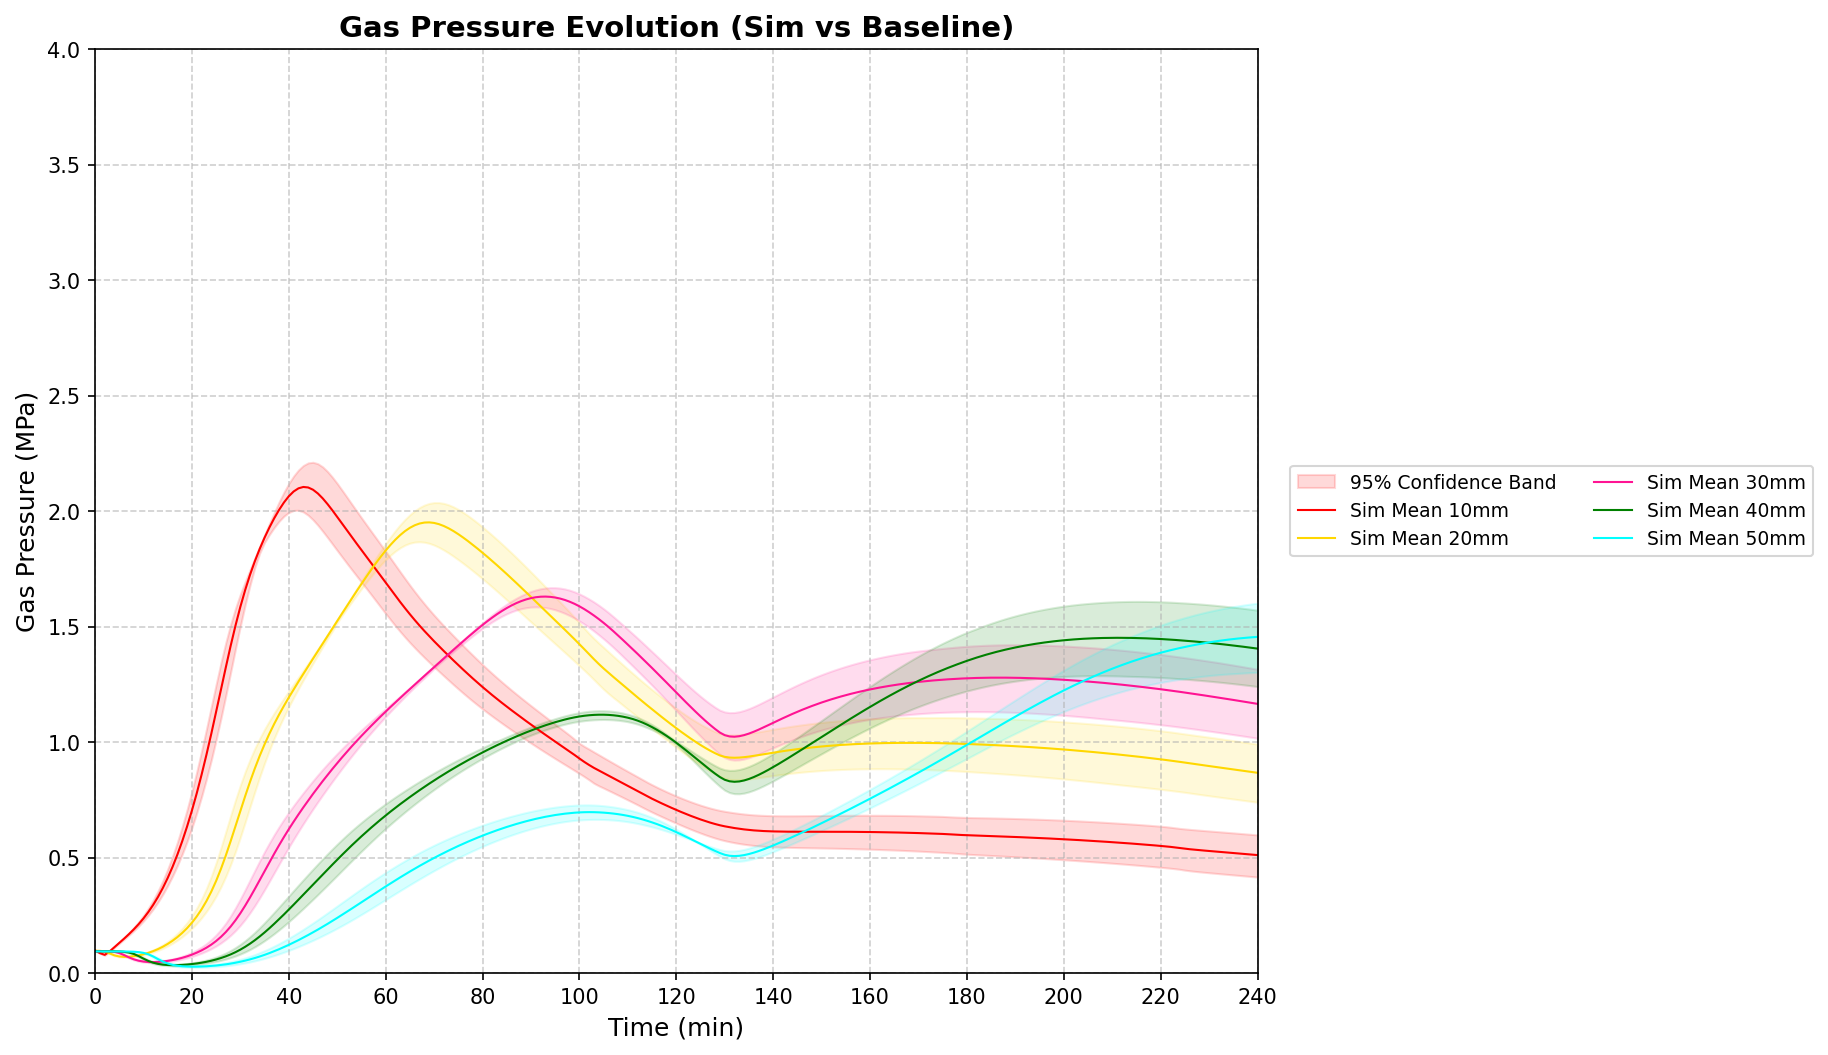
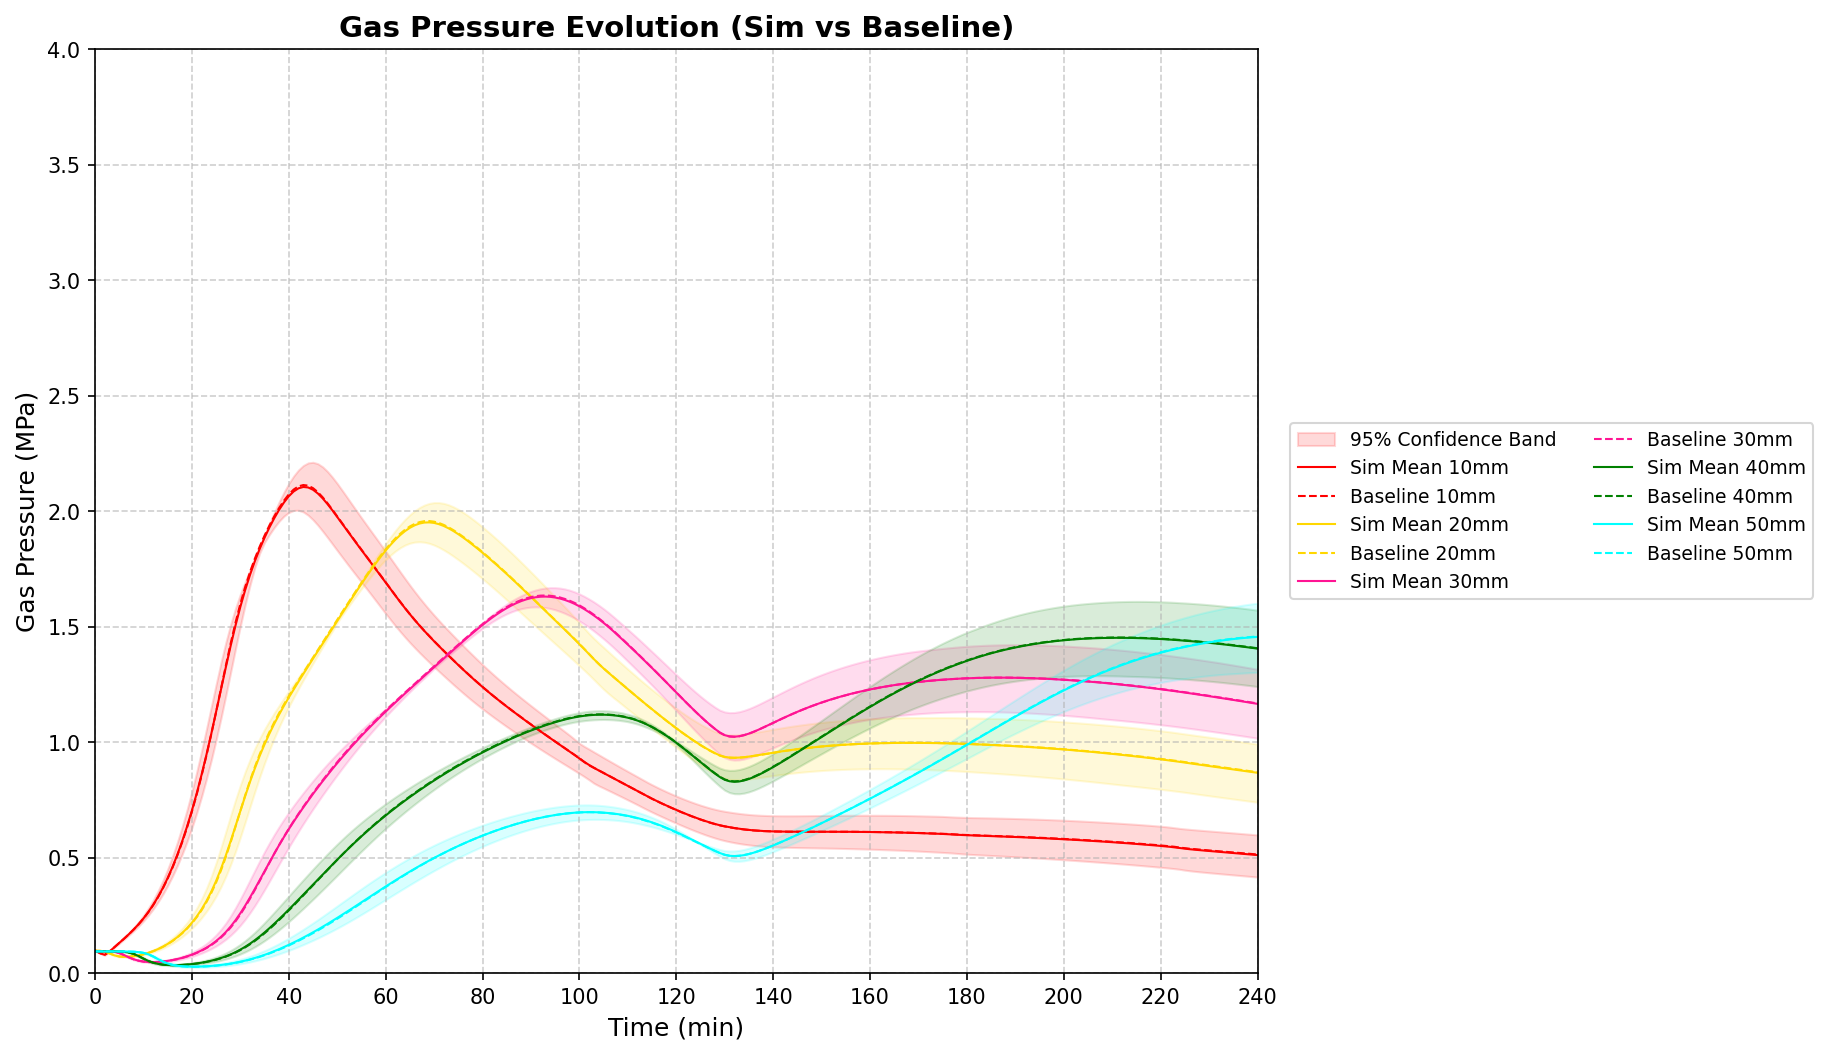
stochasticB plots updated

Changed region(s): [[0.686, 0.3943, 0.9978, 0.5763]]

diff --git a/05.Stochastic/Stochastic_A/[p3]_confidence-intervals.py b/05.Stochastic/Stochastic_A/[p3]_confidence-intervals.py
@@ -14,8 +14,8 @@ os.makedirs(output_dir, exist_ok=True)
 N_loops = 30
 
 # MỚI: Đường dẫn đến file kết quả gốc (Baseline)
-baseline_T_file  = r'D:\cast3m-m2internship\03.Calibration\Calibration_03\temp_results_no_32_KINT_8.5e-20_AK_4.0.csv'
-baseline_Pg_file = r'D:\cast3m-m2internship\03.Calibration\Calibration_03\pg_results_no_32_KINT_8.5e-20_AK_4.0.csv'
+baseline_T_file  = r'D:\cast3m-m2internship\03.Calibration\Calibration_03\CSV\temp_results_no_32_KINT_8.5e-20_AK_4.0.csv'
+baseline_Pg_file = r'D:\cast3m-m2internship\03.Calibration\Calibration_03\CSV\pg_results_no_32_KINT_8.5e-20_AK_4.0.csv'
 
 colors = {
     '00': 'blue',     # Không có trong trend plot, giữ màu đen

diff --git a/05.Stochastic/Stochastic_B/[p3]_confidence-intervals.py b/05.Stochastic/Stochastic_B/[p3]_confidence-intervals.py
@@ -14,8 +14,8 @@ os.makedirs(output_dir, exist_ok=True)
 N_loops = 30
 
 # MỚI: Đường dẫn đến file kết quả gốc (Baseline)
-baseline_T_file  = r'D:\cast3m-m2internship\03.Calibration\Calibration_03\temp_results_no_32_KINT_8.5e-20_AK_4.0.csv'
-baseline_Pg_file = r'D:\cast3m-m2internship\03.Calibration\Calibration_03\pg_results_no_32_KINT_8.5e-20_AK_4.0.csv'
+baseline_T_file  = r'D:\cast3m-m2internship\03.Calibration\Calibration_03\CSV\temp_results_no_32_KINT_8.5e-20_AK_4.0.csv'
+baseline_Pg_file = r'D:\cast3m-m2internship\03.Calibration\Calibration_03\CSV\pg_results_no_32_KINT_8.5e-20_AK_4.0.csv'
 
 colors = {
     '00': 'blue',     # Không có trong trend plot, giữ màu đen
